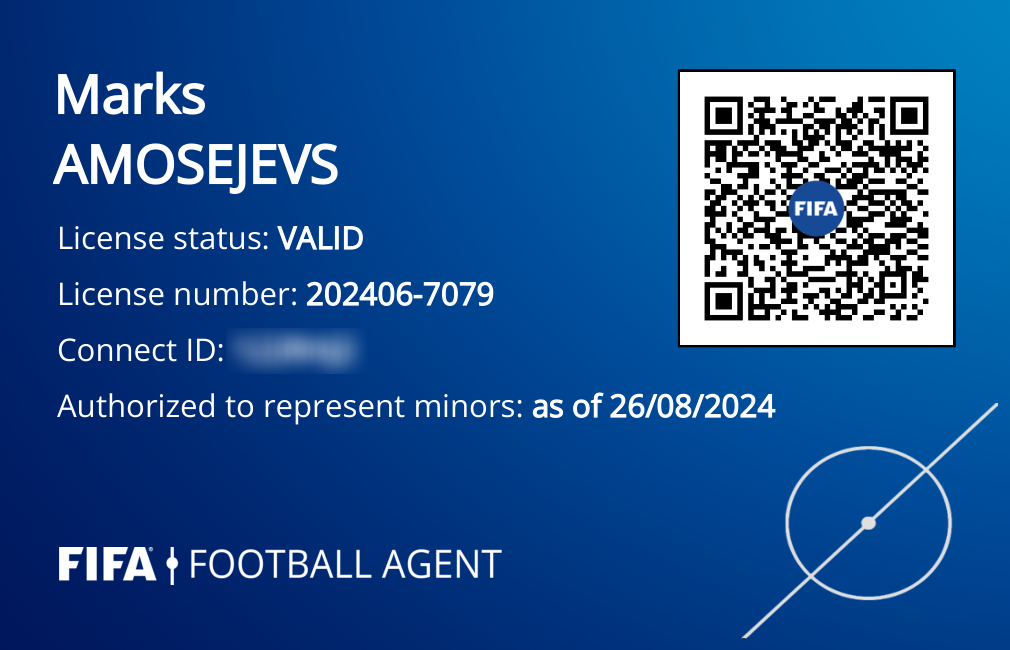
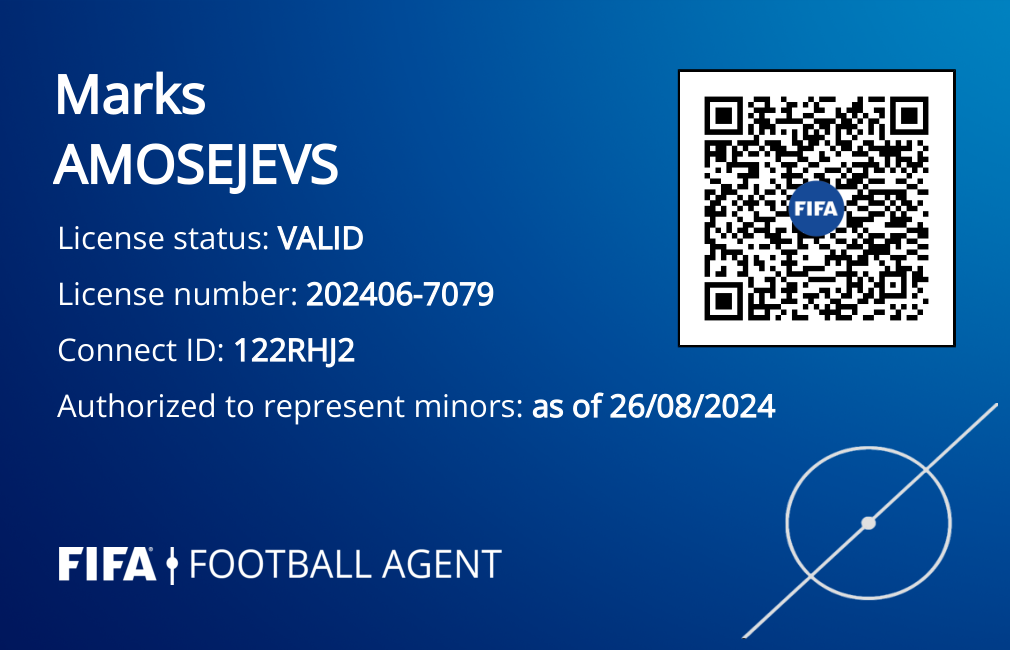
Pathway: homepage polish — agent-led hero copy, Filipp at MetLife, earlier testimonials, colour, unredacted licence, education certificate
- Hero lede: "Then a FIFA Licensed Football Agent and our team guide your pathway…";
  the credential phrase gets a semibold white + yellow-underline emphasis
- Hero supporting image: Filipp Sviridenko at MetLife Stadium (events/cwc-final-stand.jpg)
  left of Emīlija, smaller and staggered lower (sm+; hidden below 640px). Not used in Team
- "Hear it from the players." moved directly after the players rail (moved, not duplicated),
  rising into it with rounded top corners
- Real photography in original colour: removed grayscale from the players rail and the
  saturate(0.9) photo grade
- FIFA licence: unredacted original render (Connect ID visible); removed the blur
  overlay / reveal toggle and redact config site-wide
- Education credential: founder-supplied FIFA certificate (Executive Programme in Football
  Agency, 2nd edition, graduation 13 June 2025) now fills the waiting slot, enlargeable

Claude-Session: https://claude.ai/code/session_0116qc5bZhWVjoqxHChGcSwD

Changed region(s): [[0.2149, 0.4923, 0.3683, 0.5846]]

diff --git a/pathway/components/home/HeroV3.tsx b/pathway/components/home/HeroV3.tsx
@@ -28,7 +28,7 @@ export function HeroV3({ pricePair, secondary }: { pricePair: ReactNode; seconda
   // Campaign-specific landing variant (utm_campaign → lib/campaigns.ts); same page, same funnel.
   const mounted = useMounted();
   const camp = mounted ? campaignFor(readAttribution().last?.utm_campaign ?? readAttribution().first?.utm_campaign) : undefined;
-  const lede = camp?.heroLede ?? "An honest assessment of where you stand — in women’s or men’s football. Then a career team that manages your pathway into Europe, month by month.";
+  const lede = camp?.heroLede ?? "An honest assessment of where you stand — in women’s or men’s football. Then a FIFA Licensed Football Agent and our team guide your pathway into Europe, month by month.";
 
   return (
     <Parallax as="section" className="on-ink relative isolate overflow-hidden pt-[var(--header-h)]">
@@ -44,7 +44,7 @@ export function HeroV3({ pricePair, secondary }: { pricePair: ReactNode; seconda
       <div className="wrap relative grid gap-10 pb-14 pt-8 lg:min-h-[calc(100svh-var(--header-h))] lg:grid-cols-[1.1fr_0.9fr] lg:items-center lg:pb-20 lg:pt-0">
         <div className="relative z-10">
           <h1 className="display max-w-[15ch] text-[clamp(2.8rem,5.8vw,6.3rem)] leading-[0.9]">Think you can play in Europe? <span className="text-route">Ask people who work in it.</span></h1>
-          <p className="lede mt-6 max-w-lg text-white/85">{lede}</p>
+          <p className="lede mt-6 max-w-lg text-white/85">{emphasise(lede)}</p>
           <div className="mt-8 flex flex-col gap-4 sm:flex-row sm:items-start">
             <div className="flex flex-col items-start gap-2">
               <Link href="/apply" className="btn btn-route" data-magnetic data-cta="apply">{CTA.apply} <span className="arrow" aria-hidden>→</span></Link>
@@ -94,8 +94,15 @@ export function HeroV3({ pricePair, secondary }: { pricePair: ReactNode; seconda
         </div>
       </div>
       {secondary && (secondary.src || IS_REVIEW) && (
-        /* Secondary editorial image — lower and smaller than the primary frame, leading the eye into the page. */
-        <div className="wrap relative -mt-4 flex justify-end pb-14 lg:-mt-28 lg:pb-20">
+        /* Secondary editorial image (Emīlija) — lower and smaller than the primary frame; the supporting image
+           (Filipp, MetLife) sits to its left, smaller and staggered lower. Below 640px only Emīlija is shown. */
+        <div className="wrap relative -mt-4 flex items-end justify-end gap-6 pb-14 lg:-mt-28 lg:gap-10 lg:pb-20">
+          <figure className="relative mb-[-1.5rem] hidden w-[30%] max-w-[300px] sm:block lg:mb-[-3.5rem] lg:w-[19%]" style={{ transform: "translate3d(calc(var(--px) * -6px), calc(var(--sp) * -18px), 0)" }}>
+            <div style={{ aspectRatio: `${HERO.supporting.w}/${HERO.supporting.h}` }} className="relative overflow-hidden rounded-[12px] shadow-[0_30px_60px_-28px_rgba(0,0,0,0.85)] ring-1 ring-white/10">
+              <Image src={HERO.supporting.src} alt={HERO.supporting.alt} fill sizes="(min-width:1024px) 19vw, 30vw" className="photo-grade object-cover" style={{ objectPosition: HERO.supporting.position }} />
+            </div>
+            <figcaption className="mt-2.5 text-[0.7rem] uppercase leading-tight tracking-[0.08em]"><span className="block font-bold text-white">{HERO.supporting.caption[0]}</span><span className="block text-white/60">{HERO.supporting.caption[1]}</span></figcaption>
+          </figure>
           <figure className="relative w-[88%] max-w-[560px] sm:w-[64%] lg:mr-[2%] lg:w-[40%]" style={{ transform: "translate3d(calc(var(--px) * 8px), calc(var(--sp) * -30px), 0)" }}>
             <span className="absolute -left-6 top-1/2 hidden h-[2px] w-6 bg-route lg:block" aria-hidden />
             <div style={{ aspectRatio: secondary.ratio }} className="relative overflow-hidden rounded-[14px] shadow-[0_40px_80px_-30px_rgba(0,0,0,0.85)] ring-1 ring-white/10">
@@ -115,4 +122,12 @@ export function HeroV3({ pricePair, secondary }: { pricePair: ReactNode; seconda
       )}
     </Parallax>
   );
+}
+
+/** Subtle emphasis on the individual credential wherever it appears in the hero lede. */
+const CREDENTIAL = "FIFA Licensed Football Agent";
+function emphasise(text: string) {
+  const at = text.indexOf(CREDENTIAL);
+  if (at < 0) return text;
+  return <>{text.slice(0, at)}<strong className="font-semibold text-white underline decoration-route decoration-2 underline-offset-[5px]">{CREDENTIAL}</strong>{text.slice(at + CREDENTIAL.length)}</>;
 }

diff --git a/pathway/content/people-assets.ts b/pathway/content/people-assets.ts
@@ -26,6 +26,13 @@ export const TEAM_PORTRAITS: Record<string, PortraitAsset> = {
  */
 export const HERO_SECONDARY = { src: "/assets/pathway/photos/players/emilija-ambaine-sassuolo.jpg", w: 1280, h: 960, alt: "Emīlija Ambaine holding a U.S. Sassuolo shirt", position: "45% 40%", caption: ["Emīlija Ambaine", "U.S. Sassuolo"] as const, note: "Founder-supplied original" };
 
+/**
+ * Hero supporting image — Filipp Sviridenko at MetLife Stadium (founder-identified "Filipp MetLife photo").
+ * Editorial context only: NOT Filipp's Team portrait (Team portraits come from the future photoshoot).
+ * Shown at the photo's own 3:4 ratio (no crop).
+ */
+export const HERO_SUPPORTING = { src: photos.cwcStand.src, w: photos.cwcStand.w, h: photos.cwcStand.h, alt: "Filipp Sviridenko in the stand at MetLife Stadium", position: "30% 50%", caption: ["Filipp Sviridenko", "MetLife Stadium"] as const };
+
 /** Credential section — a DIFFERENT Marks photograph from the team portrait. */
 export const CREDENTIAL_PHOTO: PortraitAsset = { src: photos.boardroom.src, alt: "Marks Amosejevs at FIFA headquarters, Zurich", focus: "72% 48%", zoom: 1.15, temporary: true, note: "FIFA HQ boardroom photo — founder to confirm or replace" };
 
@@ -33,7 +40,7 @@ export interface CredentialDoc { key: string; title: string; detail?: string; sr
 
 /** Credential documents. Never fabricated: a document renders only when its real asset is present. */
 export const CREDENTIAL_DOCS: CredentialDoc[] = [
-  { key: "fifa-licence", title: "FIFA Football Agent Licence", detail: "Licence 202406-7079 · status valid", src: "/assets/pathway/credentials/fifa-licence-card.png", w: 1010, h: 650, alt: "FIFA football agent licence of Marks Amosejevs — licence number 202406-7079, status valid, authorised to represent minors as of 26 August 2024 (Connect ID redacted)", status: "real" },
-  // Title / institution / programme to be taken from the actual document once supplied — not invented.
-  { key: "education", title: "Additional professional education", w: 1200, h: 850, alt: "", status: "waiting" },
+  { key: "fifa-licence", title: "FIFA Football Agent Licence", detail: "Licence 202406-7079 · status valid", src: "/assets/pathway/credentials/fifa-licence-card.png", w: 1010, h: 650, alt: "FIFA football agent licence of Marks Amosejevs — licence number 202406-7079, status valid, authorised to represent minors as of 26 August 2024", status: "real" },
+  // Founder-supplied certificate scan (PDF, 6 Oct 2026) — wording taken from the document itself.
+  { key: "education", title: "FIFA Executive Programme in Football Agency", detail: "2nd edition · graduation 13 June 2025", src: "/assets/pathway/credentials/fifa-executive-programme-certificate.jpg", w: 2464, h: 1711, alt: "FIFA certificate confirming the successful participation of Marks Amosejevs in the Executive Programme in Football Agency, 2nd edition, graduation on 13 June 2025", status: "real" },
 ];

diff --git a/pathway/content/photos.ts b/pathway/content/photos.ts
@@ -30,7 +30,7 @@ export const photos: Record<string, DocPhoto> = {
   captain: { id: "captain", src: B + "players/shirt-presentation-office.jpg", w: 960, h: 1280, alt: "Marks Amosejevs and a player holding a national-team shirt in an office", caption: "[CONTEXT — E11]", evidence: hold("E11") },
   korona: { id: "korona", src: B + "cases/korona-kielce-signing.jpg", w: 1280, h: 1058, alt: "Marks Amosejevs with Viktors Ohvovoriole holding a Korona Kielce shirt", caption: "Viktors Ohvovoriole — transfer to Korona Kielce, Poland. [YEAR — E14]", evidence: { state: "confirmed", ref: "E11", note: "Founder approved as primary hero image (Round 3); names from founder-supplied file name" } },
   /* Round 2 uploads (founder, chat). People are not identified from the photos; captions use only visible event signage until E36 clears. */
-  cwcStand: { id: "cwcStand", src: B + "events/cwc-final-stand.jpg", w: 1500, h: 2000, alt: "A man in a white shirt smiling from a stadium stand above a full crowd and the pitch", caption: "FIFA Club World Cup 2025 Final, MetLife Stadium. [PEOPLE / CONTEXT — E36]", location: "New Jersey", evidence: pending("E36", "Who is pictured, context, publication") },
+  cwcStand: { id: "cwcStand", src: B + "events/cwc-final-stand.jpg", w: 1500, h: 2000, alt: "A man in a white shirt smiling from a stadium stand above a full crowd and the pitch", caption: "Filipp Sviridenko at MetLife Stadium.", location: "New Jersey", evidence: { state: "confirmed", ref: "E36", note: "Founder identified this as the Filipp MetLife photo (hero supporting image)" } },
   cwcPitchWhite: { id: "cwcPitchWhite", src: B + "events/cwc-final-pitch-white.jpg", w: 1200, h: 1600, alt: "Two men posing on the pitch of an empty stadium after a match", caption: "FIFA Club World Cup 2025 Final, MetLife Stadium. [PEOPLE / CONTEXT — E36]", location: "New Jersey", evidence: pending("E36", "Who is pictured, context, publication") },
   cwcPitchBlue: { id: "cwcPitchBlue", src: B + "events/cwc-final-pitch-blue.jpg", w: 1200, h: 1600, alt: "Two men giving a thumbs-up on a stadium pitch at night", caption: "FIFA Club World Cup 2025 Final, MetLife Stadium. [PEOPLE / CONTEXT — E36]", location: "New Jersey", evidence: pending("E36", "Who is pictured, context, publication") },
   hotelLobby: { id: "hotelLobby", src: B + "events/hotel-lobby.jpg", w: 1200, h: 1600, alt: "Two men in suits smiling in a marble hotel lobby", caption: "[PEOPLE / EVENT / YEAR — E36]", evidence: pending("E36", "Who is pictured, context, publication") },

diff --git a/pathway/content/credentials.ts b/pathway/content/credentials.ts
@@ -11,8 +11,6 @@ export interface VerifyEntry {
   href?: string;
   external?: boolean;
   documentImage?: string;
-  /** Sensitive identifiers blurred by default in the document viewer (E5). */
-  redact?: { label: string; top: string; left: string; width: string; height: string }[];
   howToCheck?: string;
   soWhatPlayer: string;
   soWhatParent: string;
@@ -29,7 +27,6 @@ export const verifyEntries: VerifyEntry[] = [
     action: "VERIFY",
     // Exact public-register URL is confirmed at E19; the document viewer + “how to check” cover it meanwhile.
     documentImage: "/assets/pathway/credentials/fifa-licence-card.png",
-    redact: [{ label: "Connect ID", top: "49%", left: "5%", width: "34%", height: "8%" }, { label: "QR", top: "10%", left: "67%", width: "28%", height: "44%" }],
     howToCheck: "Search “Amosejevs” on FIFA’s public football agent register.",
     soWhatPlayer: "You can check who leads the team assessing you.",
     soWhatParent: "A licence you can check yourself, in about a minute.",
@@ -79,13 +76,14 @@ export const verifyEntries: VerifyEntry[] = [
   },
   {
     id: "fifa-education",
-    claim: "FIFA professional education for football agents",
+    claim: "FIFA Executive Programme in Football Agency",
+    detail: "2nd edition · graduation 13 June 2025",
     evidenceLabel: "Certificate",
     action: "VIEW CREDENTIAL",
-    documentImage: "/assets/pathway/photos/fifa/fifa-education-certificate.jpg",
+    documentImage: "/assets/pathway/credentials/fifa-executive-programme-certificate.jpg",
     soWhatPlayer: "Current knowledge — not a licence from years ago.",
     soWhatParent: "Evidence of a professional standard.",
-    evidence: pending("E3", "Programme name, edition, year; certificate scan"),
+    evidence: { state: "document", ref: "E3", note: "Certificate scan supplied by founder" },
     compact: false,
   },
   {

diff --git a/pathway/components/verify/VerifyLedger.tsx b/pathway/components/verify/VerifyLedger.tsx
@@ -49,7 +49,6 @@ export function VerifyLedger({ mode = "compact", audience = "player", exclude = 
 }
 
 function DocViewer({ e, onClose }: { e: VerifyEntry; onClose: () => void }) {
-  const [revealed, setRevealed] = useState(false);
   return (
     <div role="dialog" aria-modal="true" aria-label={e.claim} className="fixed inset-0 z-[80] flex items-end justify-center bg-black/70 p-0 backdrop-blur-sm sm:items-center sm:p-6" onClick={onClose}>
       <div className="on-ink max-h-[92dvh] w-full max-w-3xl overflow-y-auto border border-white/15 p-6 sm:p-8" onClick={(ev) => ev.stopPropagation()}>
@@ -60,14 +59,10 @@ function DocViewer({ e, onClose }: { e: VerifyEntry; onClose: () => void }) {
         {e.documentImage ? (
           <div className="relative mt-6 overflow-hidden bg-ink-deep">
             <Image src={e.documentImage} alt={`${e.evidenceLabel} — ${e.claim}`} width={1200} height={772} className="h-auto w-full" />
-            {!revealed && e.redact?.map((r) => (
-              <span key={r.label} className="absolute backdrop-blur-xl bg-ink/40" style={{ top: r.top, left: r.left, width: r.width, height: r.height }} aria-label={`${r.label} redacted`} />
-            ))}
           </div>
         ) : (
           <div className="mt-6 border border-dashed border-white/20 p-8 text-center text-slate-light">Evidence document will appear here once cleared ({e.evidence.ref}).</div>
         )}
-        {e.redact && IS_REVIEW && <button className="mono mt-3 text-[0.68rem] uppercase tracking-[0.1em] text-slate-light underline" onClick={() => setRevealed((v) => !v)}>Review only: {revealed ? "re-apply" : "show"} redaction (E5)</button>}
         {e.howToCheck && <p className="mt-6 text-[0.95rem] text-white/85"><span className="mono mr-2 text-[0.62rem] uppercase tracking-[0.12em] text-slate">How to check</span>{e.howToCheck}</p>}
       </div>
     </div>

diff --git a/pathway/components/home/PlayersRail.tsx b/pathway/components/home/PlayersRail.tsx
@@ -35,7 +35,7 @@ export function PlayersRail() {
             return (
               <li key={`${p.slug}-${n}`} aria-hidden={n >= shown.length} className="group relative w-[58vw] max-w-[260px] shrink-0 sm:w-[240px]">
                 <div className="relative aspect-[3/4] overflow-hidden rounded-[10px] bg-paper">
-                  <Image src={p.photo} alt={n < shown.length ? p.name : ""} fill sizes="260px" className="object-cover grayscale transition-[filter,transform] duration-700 group-hover:scale-[1.05] group-hover:grayscale-0" />
+                  <Image src={p.photo} alt={n < shown.length ? p.name : ""} fill sizes="260px" className="object-cover transition-transform duration-700 group-hover:scale-[1.05]" />
                   <div className="absolute inset-x-0 bottom-0 translate-y-2 bg-gradient-to-t from-ink/90 to-transparent p-3 pt-10 opacity-0 transition-all duration-500 group-hover:translate-y-0 group-hover:opacity-100">
                     <p className="text-[0.8rem] font-semibold text-white">{p.position}</p>
                     {p.club && <p className="text-[0.75rem] text-white/75">{p.club}</p>}

diff --git a/pathway/content/hero.ts b/pathway/content/hero.ts
@@ -1,5 +1,5 @@
 import { photos } from "./photos";
-import { HERO_SECONDARY } from "./people-assets";
+import { HERO_SECONDARY, HERO_SUPPORTING } from "./people-assets";
 
 /**
  * Hero art direction — swap the image here after founder review (any id from content/photos.ts).
@@ -12,6 +12,8 @@ export const HERO = {
   caption: "Marks Amosejevs with Viktors Ohvovoriole · transfer to Korona Kielce",
   /** Secondary opening image (lower in the hierarchy): Emīlija Ambaine, U.S. Sassuolo. Slot prepared; renders the photo only when the real file exists (see people-assets.ts). */
   secondary: HERO_SECONDARY,
+  /** Supporting opening image (smallest): Filipp Sviridenko at MetLife Stadium, left of Emīlija on desktop. */
+  supporting: HERO_SUPPORTING,
   /** Other plausible hero images, in order of preference. */
   alternates: [photos.cwcStand, photos.okmk, photos.chairmanShirt],
 };

diff --git a/pathway/components/home/HomeV2.tsx b/pathway/components/home/HomeV2.tsx
@@ -114,7 +114,7 @@ export function TestimonialsCarousel() {
   const slots = IS_REVIEW ? Array.from({ length: Math.max(0, 5 - cards.length) }, (_, n) => ({ slot: cards.length + n + 1 })) : [];
   if (!cards.length && !slots.length) return null;
   return (
-    <section className="on-ink relative overflow-hidden py-[clamp(4.5rem,10vw,7.5rem)]" aria-labelledby="voices-title">
+    <section className="on-ink relative z-[1] -mt-10 overflow-hidden rounded-t-[clamp(24px,4vw,48px)] pb-[clamp(4.5rem,10vw,7.5rem)] pt-[clamp(3.5rem,7vw,5.5rem)]" aria-labelledby="voices-title">
       <div className="wrap">
         <h2 id="voices-title" className="display mb-10 max-w-[14ch] text-[clamp(2.6rem,5.4vw,5.2rem)] leading-[0.9]">Hear it from the players.</h2>
         <VideoTestimonials cards={cards} slots={slots} />

diff --git a/pathway/app/page.tsx b/pathway/app/page.tsx
@@ -28,6 +28,7 @@ export default function Home() {
       <HeroV3 pricePair={<PricePair />} secondary={secondary} />
       <ServicesTicker />
       <PlayersRail />
+      <TestimonialsCarousel />
       <DecisionSet />
       <StartHere />
       <PathwayScroller price={product("pathway").price} />
@@ -36,7 +37,6 @@ export default function Home() {
       <CredentialSection />
       <PhotoMarquee />
       <ParentsSection />
-      <TestimonialsCarousel />
       <HowItWorksStrip />
       <FinalOffer />
     </>

diff --git a/pathway/app/globals.css b/pathway/app/globals.css
@@ -140,7 +140,7 @@ body {
 .rail::-webkit-scrollbar { display: none; }
 
 /* Photo treatment: real photography, slight editorial grade */
-.photo-grade { filter: saturate(0.9) contrast(1.04); }
+.photo-grade { filter: none; } /* real photography in natural original colour */
 
 @media (prefers-reduced-motion: reduce) {
   *, *::before, *::after { animation-duration: 0.001ms !important; animation-iteration-count: 1 !important; transition-duration: 0.001ms !important; scroll-behavior: auto !important; }
